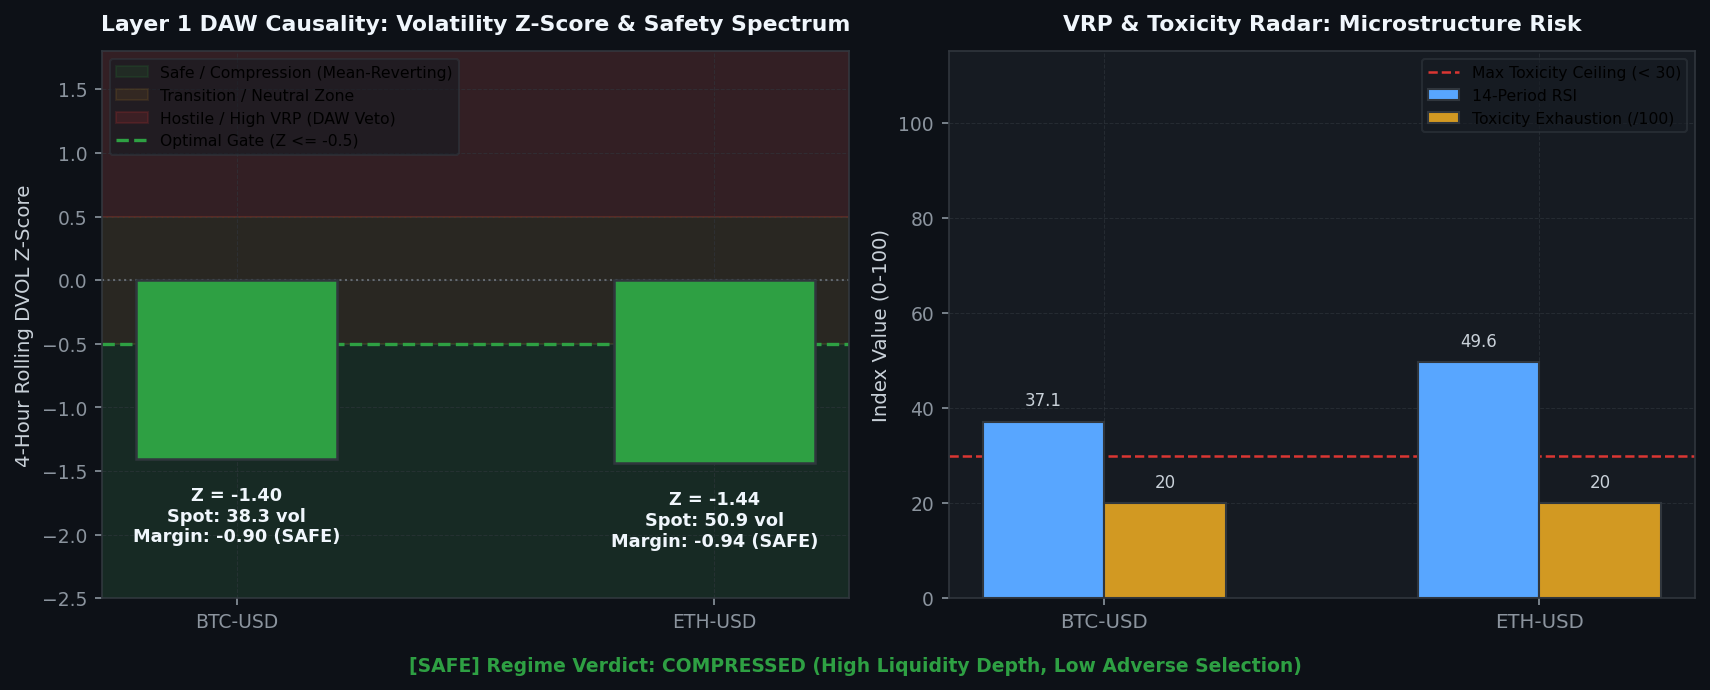
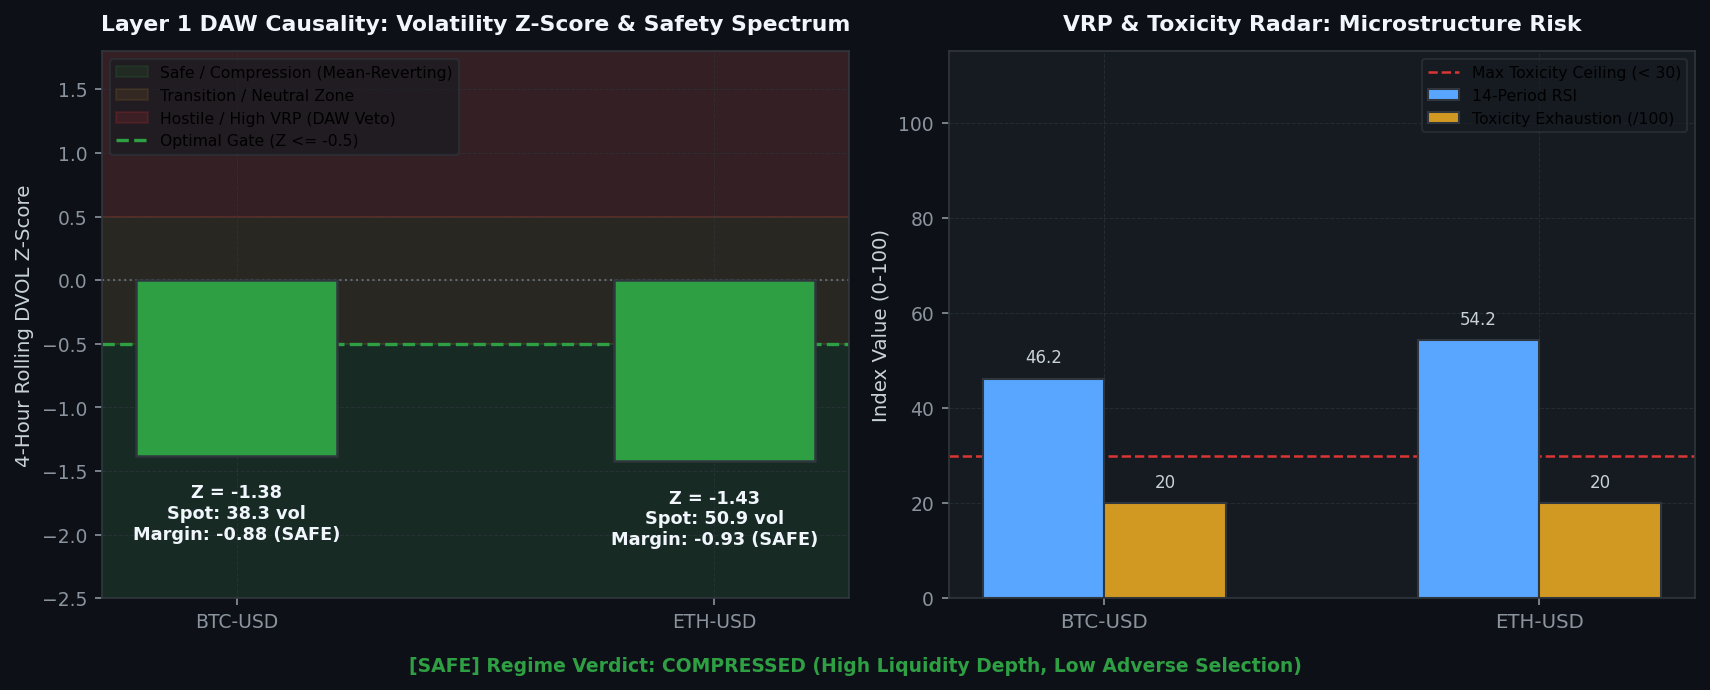
[coinbase] Hourly Status & Visual Intelligence Update: 2026-08-28 16:00:21

diff --git a/coinbase/data/hourly_status_report.md b/coinbase/data/hourly_status_report.md
@@ -3,7 +3,7 @@ layout: default
 ---
 
 # 🛡 Unified Trading System Hourly Status & Visual Intelligence
-> **Report Generated**: `2026-08-28 03:57:56 PM PDT (2026-08-28 22:57:56 UTC)`  
+> **Report Generated**: `2026-08-28 04:00:03 PM PDT (2026-08-28 23:00:03 UTC)`  
 > **System Health**: **🟡 DEGRADED / RESTRICTED** | **Win Rate**: `0.0%` | **Completed Trades**: `0`
 
 
@@ -15,13 +15,13 @@ Real-time Deribit implied volatility (DVOL) proxy tracking against mathematicall
 
 | Symbol | Proxy Oracle | Live Z-Score | Optimal Limit (YSP) | Safety Margin | Live VRP | Optimal VRP (YSP) | DAW Safety Verdict |
 | :--- | :--- | :--- | :--- | :--- | :--- | :--- | :--- |
-| `AVAX-USD` | DVOL_BTC | **-1.41** | **-0.50** | **-0.91** | **+1.28** | 5.0 | 🟢 SAFE |
-| `ETH-USD` | DVOL_ETH | **-1.44** | **-0.50** | **-0.94** | **+12.91** | 5.0 | 🔴 DAW VETOED |
-| `ADA-USD` | DVOL_BTC | **-1.41** | **-0.50** | **-0.91** | **+1.39** | 5.0 | 🟢 SAFE |
-| `DOGE-USD` | DVOL_BTC | **-1.41** | **-0.50** | **-0.91** | **+1.22** | 5.0 | 🟢 SAFE |
-| `BTC-USD` | DVOL_BTC | **-1.41** | **-0.50** | **-0.91** | **+1.12** | 5.0 | 🟢 SAFE |
-| `LINK-USD` | DVOL_BTC | **-1.41** | **-0.50** | **-0.91** | **+1.37** | 5.0 | 🟢 SAFE |
-| `SOL-USD` | DVOL_BTC | **-1.41** | **-0.50** | **-0.91** | **+0.08** | 5.0 | 🟢 SAFE |
+| `AVAX-USD` | DVOL_BTC | **-1.39** | **-0.50** | **-0.89** | **+1.28** | 5.0 | 🟢 SAFE |
+| `ETH-USD` | DVOL_ETH | **-1.43** | **-0.50** | **-0.93** | **+12.61** | 5.0 | 🔴 DAW VETOED |
+| `ADA-USD` | DVOL_BTC | **-1.39** | **-0.50** | **-0.89** | **+1.39** | 5.0 | 🟢 SAFE |
+| `DOGE-USD` | DVOL_BTC | **-1.39** | **-0.50** | **-0.89** | **+1.22** | 5.0 | 🟢 SAFE |
+| `BTC-USD` | DVOL_BTC | **-1.39** | **-0.50** | **-0.89** | **+1.12** | 5.0 | 🟢 SAFE |
+| `LINK-USD` | DVOL_BTC | **-1.39** | **-0.50** | **-0.89** | **+1.37** | 5.0 | 🟢 SAFE |
+| `SOL-USD` | DVOL_BTC | **-1.39** | **-0.50** | **-0.89** | **+0.08** | 5.0 | 🟢 SAFE |
 
 
 
@@ -37,16 +37,16 @@ We hereby certify that the mission-critical algorithmic data assets uploaded by 
 
 | Status | Data Asset | Freshness / State | Details / Timestamp |
 | :---: | :--- | :--- | :--- |
-| ✅ | **Go-List JSON** | Fresh (7.10h old) | 08-28 08:52 |
-| ✅ | **TimesFM Forecasts** | Fresh (3.11h old) | 08-28 12:51 |
-| ❌ | **Holding Times config** | STALE! (174.9h old) | Limit 117.0h |
-| ✅ | **BTC DVOL Cache** | Fresh (0.01h old) | 08-28 15:57 |
-| ✅ | **ETH DVOL Cache** | Fresh (0.01h old) | 08-28 15:57 |
+| ✅ | **Go-List JSON** | Fresh (7.13h old) | 08-28 08:52 |
+| ✅ | **TimesFM Forecasts** | Fresh (3.14h old) | 08-28 12:51 |
+| ❌ | **Holding Times config** | STALE! (175.0h old) | Limit 117.0h |
+| ✅ | **BTC DVOL Cache** | Fresh (0.00h old) | 08-28 16:00 |
+| ✅ | **ETH DVOL Cache** | Fresh (0.00h old) | 08-28 16:00 |
 | ❌ | **Live Trading Telemetry** | STALE! (2.1h old) | Limit 0.1h |
 
 <br>
 
-> **Utilization Certification**: ✅ **CERTIFIED.** The Guardian Watchdog is ONLINE and EC2 traders are actively querying the freshest MLOps data artifacts (Found 517 recent read events).
+> **Utilization Certification**: ✅ **CERTIFIED.** The Guardian Watchdog is ONLINE and EC2 traders are actively querying the freshest MLOps data artifacts (Found 521 recent read events).
 
 
 ---
@@ -55,7 +55,7 @@ Layer-by-layer tick evaluation waterfall and asset-specific performance tracking
 
 | Funnel Filter Layer | Total Rejections | % of Rejections |
 | :--- | :--- | :--- |
-| Tier 1: Macro Volatility Tensor Gate (Omega_macro) | `20,191` | **100.0%** |
+| Tier 1: Macro Volatility Tensor Gate (Omega_macro) | `20,196` | **100.0%** |
 | Tier 2: Unified Transport & Directional Engine | `0` | **0.0%** |
 | Tier 3: Continuous Hawkes-SFGK Pricer (HAS-Pricer) | `0` | **0.0%** |
 | System: Asset Cooldown Active | `0` | **0.0%** |
@@ -87,15 +87,15 @@ Live balance sheet and open maker liquidity positions from Coinbase CDP.
 | :--- | :--- | :--- | :--- |
 | `ACH-USD` | SELL | 0.005507 | `a0d2e243-42b4-4df5-bd23-118f45998df8` |
 | `SOL-USD` | SELL | 104.32 | `ae3b59e2-9db8-4cee-ac6e-126dadcf2105` |
-| `USDT-USDC` | SELL | 1.0001 | `c6df0641-6530-4045-8576-80625cc069b0` |
 | `USDT-USDC` | SELL | 1.0001 | `4d9f1df5-f1ce-408b-8fcb-f870df3e47db` |
-| `USDT-USDC` | SELL | 1.0001 | `66cab2eb-254c-4f1b-b5b6-1251e98e9290` |
 | `USDT-USDC` | SELL | 1.0001 | `5fa15d4a-6b18-45bf-9b63-87c4abf65231` |
+| `USDT-USDC` | SELL | 1.0001 | `c6df0641-6530-4045-8576-80625cc069b0` |
+| `USDT-USDC` | SELL | 1.0001 | `66cab2eb-254c-4f1b-b5b6-1251e98e9290` |
 | `USDT-USDC` | SELL | 1.0001 | `b697dc68-9e4c-47f8-b03f-079cc7e80d03` |
-| `DOGE-USD` | BUY | 0.08499 | `bdcbd708-72ea-4dd1-8645-5f45f0a2ff42` |
-| `ADA-USD` | BUY | 0.20205 | `9cf31435-f982-4e3b-820b-b64e2a66e905` |
-| `AVAX-USD` | BUY | 7.294 | `56021f93-68f8-4df8-8913-f49fd724192e` |
-| `LINK-USD` | BUY | 11.424 | `201c0a40-d1f8-4843-bf8d-f52d5f8a3b8e` |
+| `DOGE-USD` | BUY | 0.08508 | `b0834d13-6a15-4616-b610-f0de8f93da7d` |
+| `ADA-USD` | BUY | 0.2021 | `9f66bec6-9785-4625-9e84-a606c3b2d0f4` |
+| `AVAX-USD` | BUY | 7.294 | `78b2cffc-17c7-43fc-b977-d368abc90e2b` |
+| `LINK-USD` | BUY | 11.426 | `3aa04da5-5193-4f61-9532-5fcf1e35ace8` |
 
 
 
@@ -105,12 +105,12 @@ Weekly Algorithmic Mega Cap selection, Zero-shot multi-step forward return forec
 
 - **TimesFM Forecast DB**: 🟢 Updated 3.1h ago (2026-08-28 12:51 PM PDT)
 - **Last Weekly VSTEF Optimization**: `2026-08-05 09:22:38 AM PDT`
-- **Next Scheduled VSTEF Run**: `2026-08-30 07:00:00 PM PDT (Monday 02:00 UTC)` (Countdown: **51.0h (2d 3h 2m)**)
+- **Next Scheduled VSTEF Run**: `2026-08-30 07:00:00 PM PDT (Monday 02:00 UTC)` (Countdown: **51.0h (2d 2h 59m)**)
 - **Promoted Parameter Gates**: $Z_{DVOL} \le -0.5$ | Holding Horizon $= 12\text{h}$
 
 ### Algorithmic Mega Cap Selection
 - **Last Run (Confirmation)**: `2026-08-28 08:52:07 AM PDT`
-- **Next Scheduled Run**: `2026-08-30 06:00:00 PM PDT (Monday 01:00 UTC)` (Countdown: **50.0h (2d 2h 1m)**)
+- **Next Scheduled Run**: `2026-08-30 06:00:00 PM PDT (Monday 01:00 UTC)` (Countdown: **50.0h (2d 1h 59m)**)
 - **Selected Mega Cap Universe**: `BTC, BCH, AVAX, ETH, ALGO, ADA, LTC, DOGE, AAVE, LINK, DOT, HBAR`
 
 
@@ -124,20 +124,20 @@ Visualizing the impact of the VSTEF (Volatility-Synchronized Stop-Tightening Exe
 ## 5. 🖥 Multi-Node Infrastructure & Watchdog Matrix
 ```text
 ================================================================================
-   🛡  SFGK FUNNEL GUARDIAN WATCHDOG (HFT ONLY) |  10:57:56 PM
-   CPU:  10.8%  |  MEM:   8.5% (14.1GB / 15.4GB Free)
+   🛡  SFGK FUNNEL GUARDIAN WATCHDOG (HFT ONLY) |  11:00:01 PM
+   CPU:   8.0%  |  MEM:   8.3% (14.1GB / 15.4GB Free)
 ================================================================================
 SERVICE              | PID      | STATUS          | RESTARTS | INFO
 --------------------------------------------------------------------------------
 L3 Consumer          | 3227082  | RUNNING         | -        | Continuous Websocket Feed
 MAO Daemon           | 3227159  | RUNNING         | -        | Oracle Yield Analysis
 U/U Farmer           | 3227162  | RUNNING         | -        | Volume Farmer
-Trader AVAX-USD      | 3276027  | RUNNING         | 2        | Evaluating Funnel/Polling Order
-Trader ETH-USD       | 3276613  | RUNNING         | 164      | Evaluating Funnel/Polling Order
-Trader ADA-USD       | 3275682  | RUNNING         | 3        | Evaluating Funnel/Polling Order
-Trader DOGE-USD      | 3275435  | RUNNING         | 8        | Evaluating Funnel/Polling Order
+Trader AVAX-USD      | 3278348  | RUNNING         | 3        | Evaluating Funnel/Polling Order
+Trader ETH-USD       | 3278349  | COOL-DOWN       | 169      | Next run in 3.5s
+Trader ADA-USD       | 3277884  | RUNNING         | 4        | Evaluating Funnel/Polling Order
+Trader DOGE-USD      | 3277516  | RUNNING         | 9        | Evaluating Funnel/Polling Order
 Trader BTC-USD       | 3276614  | RUNNING         | 26       | Evaluating Funnel/Polling Order
-Trader LINK-USD      | 3276081  | RUNNING         | 13       | Evaluating Funnel/Polling Order
+Trader LINK-USD      | 3278360  | RUNNING         | 14       | Evaluating Funnel/Polling Order
 ```
 
 ---

diff --git a/coinbase/data/visual_intelligence.md b/coinbase/data/visual_intelligence.md
@@ -4,7 +4,7 @@ title: Visual Intelligence Gallery
 ---
 
 # 📈 Visual Intelligence Gallery
-> **Generated:** `2026-08-28 15:58:13`
+> **Generated:** `2026-08-28 16:00:21`
 > **[Return to Main Status Report](./hourly_status_report.md)**
 
 This page visualizes the internal states, market profiles, and decision criteria of the active **3-Tier Fused Decision Engine** across all layers.
